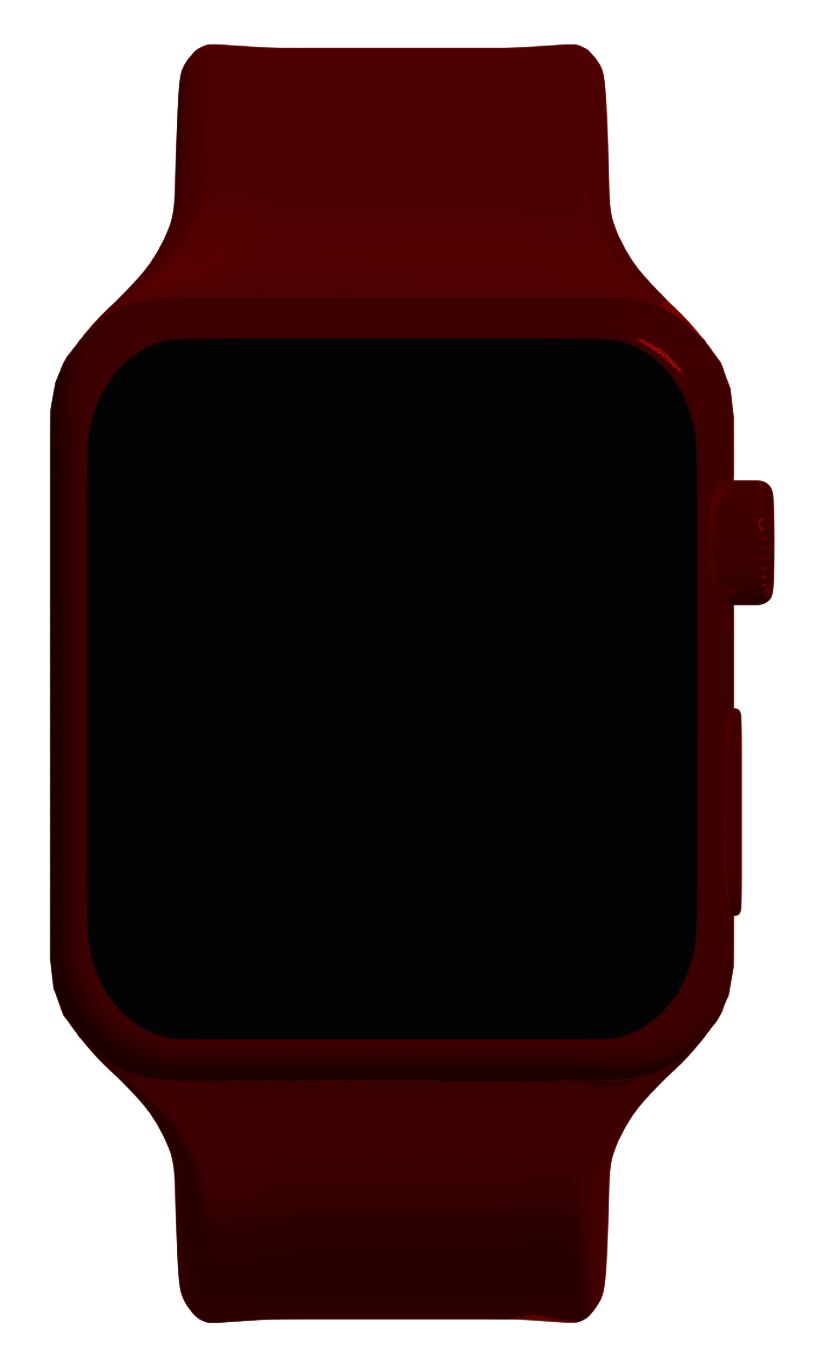
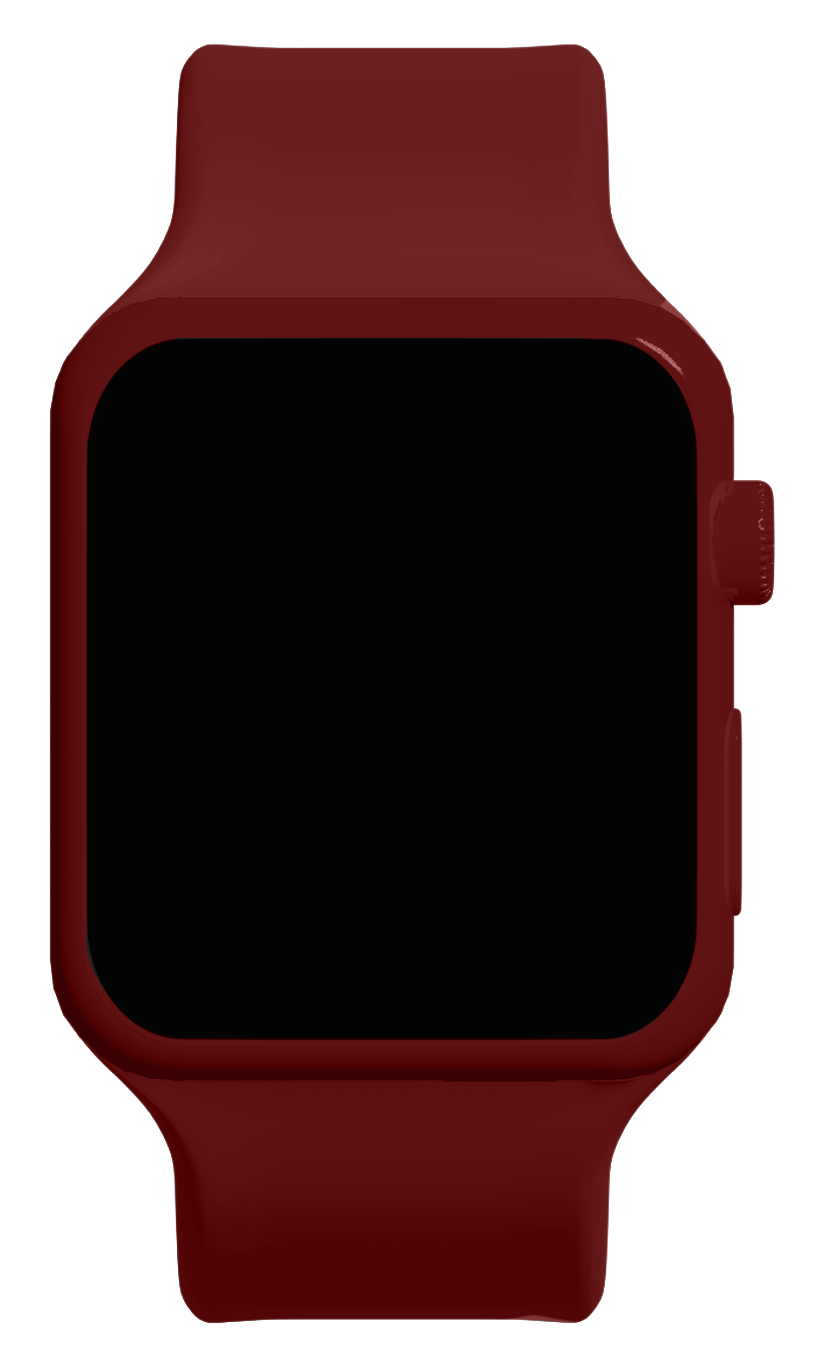
Rev (1.2)
+ Adicionado novos modelos de capas
* Fixados alguns bugs

Changed region(s): [[0.0625, 0.0307, 0.9375, 0.981]]

diff --git a/html/js/watch.js b/html/js/watch.js
@@ -120,6 +120,12 @@ function pause() {
     }));
 }
 
+function stopMusic() {
+    $.post('https://GENESEEWatch/action', JSON.stringify({
+        action: 'stop'
+    }));
+}
+
 function less() {
     $.post('https://GENESEEWatch/action', JSON.stringify({
         action: 'volume-'
@@ -158,22 +164,89 @@ function settings() {
     $("#settings").show()
 }
 
+const colours = [{ // Vermelho
+        width: '195px',
+        height: '303px',
+        right: '5vh',
+        bottom: '5vh',
+        backgroundimg: 'url(img/watch_red.png)',
+        background: 'linear-gradient(180deg, #990000 0%, rgba(49, 49, 49, 0.1) 83.33%, rgba(49, 49, 49, 0) 100%)',
+    },
+    { // Verde
+        width: '195px',
+        height: '303px',
+        right: '5vh',
+        bottom: '5vh',
+        backgroundimg: 'url(img/watch_green.png)',
+        background: 'linear-gradient(180deg, #004C00 0%, rgba(49, 49, 49, 0.1) 83.33%, rgba(49, 49, 49, 0) 100%)',
+    }, { // Azul
+        width: '195px',
+        height: '303px',
+        right: '5vh',
+        bottom: '5vh',
+        backgroundimg: 'url(img/watch_blue.png)',
+        background: 'linear-gradient(180deg, #000099 0%, rgba(49, 49, 49, 0.1) 83.33%, rgba(49, 49, 49, 0) 100%)',
+    }, { // Branco
+        width: '195px',
+        height: '303px',
+        right: '5vh',
+        bottom: '5vh',
+        backgroundimg: 'url(img/watch_white.png)',
+        background: 'linear-gradient(180deg, #999999 0%, rgba(49, 49, 49, 0.1) 83.33%, rgba(49, 49, 49, 0) 100%)',
+    }, { // Ouro
+        width: '195px',
+        height: '303px',
+        right: '5vh',
+        bottom: '5vh',
+        backgroundimg: 'url(img/watch_gold.png)',
+        background: 'linear-gradient(180deg, #998100 0%, rgba(49, 49, 49, 0.1) 83.33%, rgba(49, 49, 49, 0) 100%)',
+    }, { // Cinza
+        width: '195px',
+        height: '303px',
+        right: '5vh',
+        bottom: '5vh',
+        backgroundimg: 'url(img/watch.png)',
+        background: 'linear-gradient(180deg, #333333 0%, rgba(49, 49, 49, 0.1) 83.33%, rgba(49, 49, 49, 0) 100%)',
+    }
+
+]
+
+let selectedColor = 0;
+
 function changecase() {
 
-    $("#watch").css("width", "195px")
-    $("#watch").css("height", "303px")
-    $("#watch").css("right", "5vh")
-    $("#watch").css("bottom", "5vh")
-    $("#watch").css("background", "url(img/watch_red.png)")
+    let style = colours[selectedColor];
+
+    $("#watch").css("width", style.width)
+    $("#watch").css("height", style.height)
+    $("#watch").css("right", style.right)
+    $("#watch").css("bottom", style.bottom)
+    $("#watch").css("background", style.backgroundimg)
     $("#watch").css("background-size", "cover")
-    $("#watch").css("z-index", "1000")
+    $("#watch").css("z-index", "999")
 
     //
 
-    $(".menu").css("background", "linear-gradient(180deg, #2c0b0b 0%, rgba(49, 49, 49, 0.1) 83.33%, rgba(49, 49, 49, 0) 100%)")
+    $(".menu").css("background", style.background)
 
     //
-    
-    $(".passaport").css("background", "linear-gradient(180deg, #2c0b0b 0%, rgba(49, 49, 49, 0.1) 83.33%, rgba(49, 49, 49, 0) 100%)")
-    $(".navplayer").css("background", "linear-gradient(180deg, #2c0b0b 0%, rgba(49, 49, 49, 0.1) 83.33%, rgba(49, 49, 49, 0) 100%)")
+
+    $(".passaport").css("background", style.background)
+    $(".navplayer").css("background", style.background)
+
+    style = nextcolor()
+}
+
+function nextcolor() {
+    selectedColor++;
+    if (selectedColor >= colours.length) selectedColor = 0
+    return colours[selectedColor]
+}
+
+document.onkeyup = function (data) {
+    if (data.which == 27) {
+        $.post('https://GENESEEWatch/action', JSON.stringify({
+            action: 'CloseNUI'
+        }));
+    }
 }

diff --git a/html/css/style.css b/html/css/style.css
@@ -297,12 +297,6 @@
     .menu {
         background: linear-gradient(180deg, #313131 0%, rgba(49, 49, 49, 0.1) 83.33%, rgba(49, 49, 49, 0) 100%);
     }
-    .menu:hover {
-        background: linear-gradient(180deg, #838383 0%, rgba(49, 49, 49, 0.1) 83.33%, rgba(49, 49, 49, 0) 100%);
-    }
-    .menu:active {
-        background: linear-gradient(180deg, #1D1D1D 0%, rgba(49, 49, 49, 0.1) 83.33%, rgba(49, 49, 49, 0) 100%);
-    }
 }
 
 @media only screen and (min-width: 1366px) and (max-width: 1366px) {
@@ -592,12 +586,6 @@
     /* SETTINGS */
     .menu {
         background: linear-gradient(180deg, #313131 0%, rgba(49, 49, 49, 0.1) 83.33%, rgba(49, 49, 49, 0) 100%);
-    }
-    .menu:hover {
-        background: linear-gradient(180deg, #838383 0%, rgba(49, 49, 49, 0.1) 83.33%, rgba(49, 49, 49, 0) 100%);
-    }
-    .menu:active {
-        background: linear-gradient(180deg, #1D1D1D 0%, rgba(49, 49, 49, 0.1) 83.33%, rgba(49, 49, 49, 0) 100%);
     }
 }
 
@@ -889,12 +877,6 @@
     .menu {
         background: linear-gradient(180deg, #313131 0%, rgba(49, 49, 49, 0.1) 83.33%, rgba(49, 49, 49, 0) 100%);
     }
-    .menu:hover {
-        background: linear-gradient(180deg, #838383 0%, rgba(49, 49, 49, 0.1) 83.33%, rgba(49, 49, 49, 0) 100%);
-    }
-    .menu:active {
-        background: linear-gradient(180deg, #1D1D1D 0%, rgba(49, 49, 49, 0.1) 83.33%, rgba(49, 49, 49, 0) 100%);
-    }
 }
 
 @media only screen and (min-width: 1600px) and (max-width: 1600px) {
@@ -1185,12 +1167,6 @@
     .menu {
         background: linear-gradient(180deg, #313131 0%, rgba(49, 49, 49, 0.1) 83.33%, rgba(49, 49, 49, 0) 100%);
     }
-    .menu:hover {
-        background: linear-gradient(180deg, #838383 0%, rgba(49, 49, 49, 0.1) 83.33%, rgba(49, 49, 49, 0) 100%);
-    }
-    .menu:active {
-        background: linear-gradient(180deg, #1D1D1D 0%, rgba(49, 49, 49, 0.1) 83.33%, rgba(49, 49, 49, 0) 100%);
-    }
 }
 
 @media only screen and (min-width: 1680px) and (max-width: 1680px) {
@@ -1480,12 +1456,6 @@
     /* SETTINGS */
     .menu {
         background: linear-gradient(180deg, #313131 0%, rgba(49, 49, 49, 0.1) 83.33%, rgba(49, 49, 49, 0) 100%);
-    }
-    .menu:hover {
-        background: linear-gradient(180deg, #838383 0%, rgba(49, 49, 49, 0.1) 83.33%, rgba(49, 49, 49, 0) 100%);
-    }
-    .menu:active {
-        background: linear-gradient(180deg, #1D1D1D 0%, rgba(49, 49, 49, 0.1) 83.33%, rgba(49, 49, 49, 0) 100%);
     }
 }
 
@@ -1779,11 +1749,5 @@
     /* SETTINGS */
     .menu {
         background: linear-gradient(180deg, #313131 0%, rgba(49, 49, 49, 0.1) 83.33%, rgba(49, 49, 49, 0) 100%);
-    }
-    .menu:hover {
-        background: linear-gradient(180deg, #838383 0%, rgba(49, 49, 49, 0.1) 83.33%, rgba(49, 49, 49, 0) 100%);
-    }
-    .menu:active {
-        background: linear-gradient(180deg, #1D1D1D 0%, rgba(49, 49, 49, 0.1) 83.33%, rgba(49, 49, 49, 0) 100%);
     }
 }

diff --git a/html/index.html b/html/index.html
@@ -57,7 +57,7 @@
                 <div class="timev2">12:00</div>
 
                 <button class="player" onclick="player()"><i class="fas fa-play"></i></button>
-                <button class="stop" onclick="pause()"><i class="fas fa-pause"></i></button>
+                <button class="stop" onclick="pause()" ondblclick="stopMusic()"><i class="fas fa-pause"></i></button>
 
                 <div class="navplayer">
                     <div class="less" onclick="less()"><b>-</b></div>
